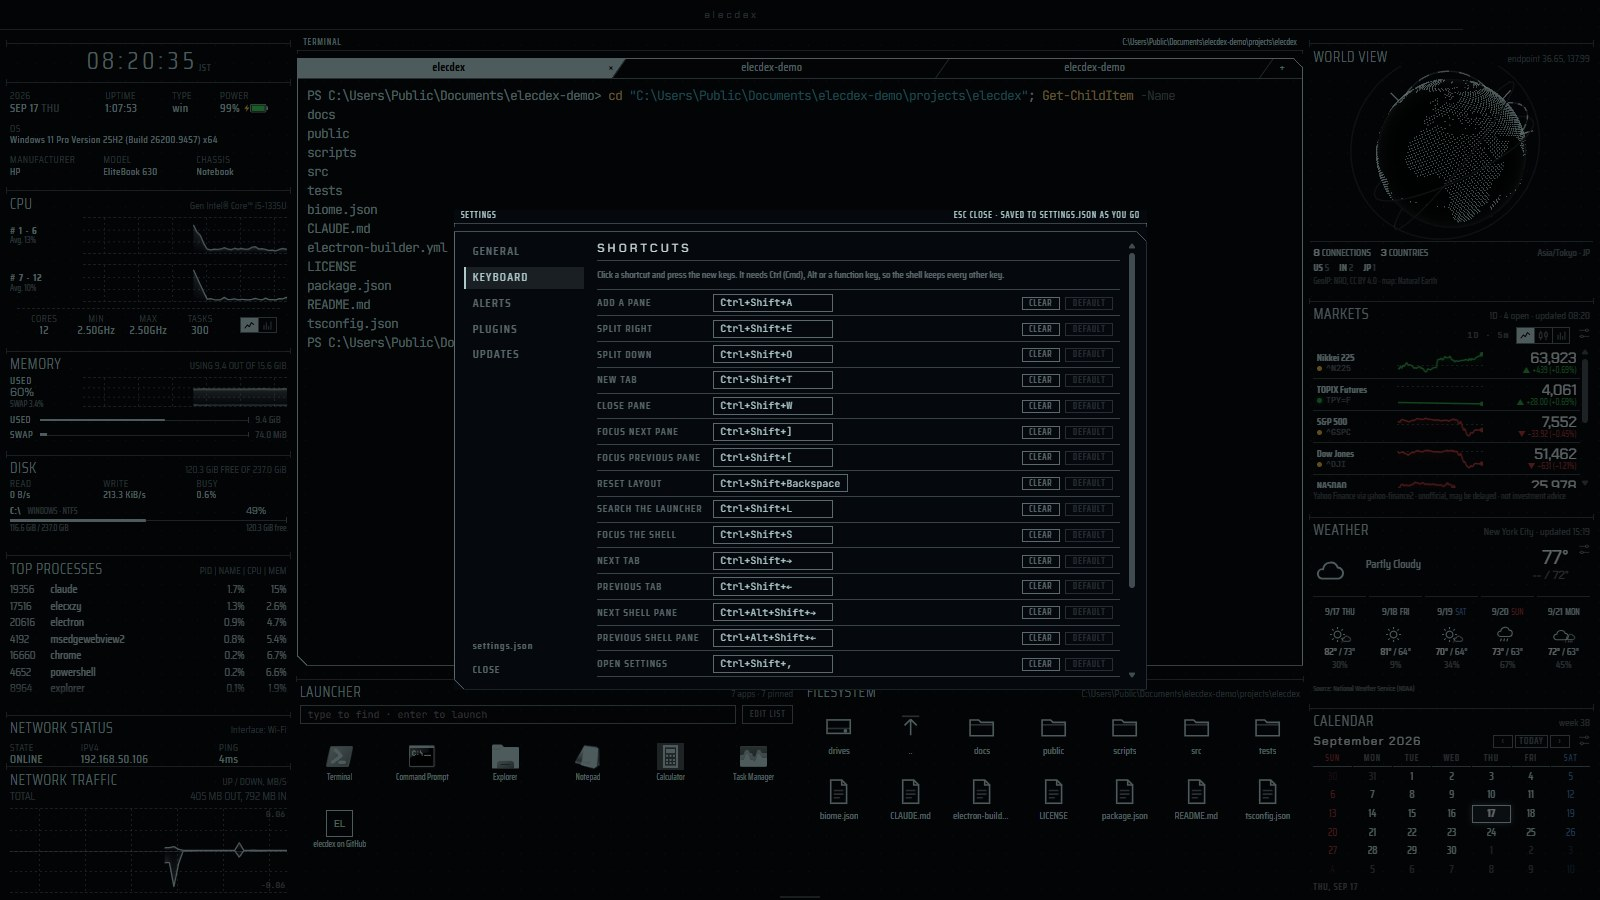
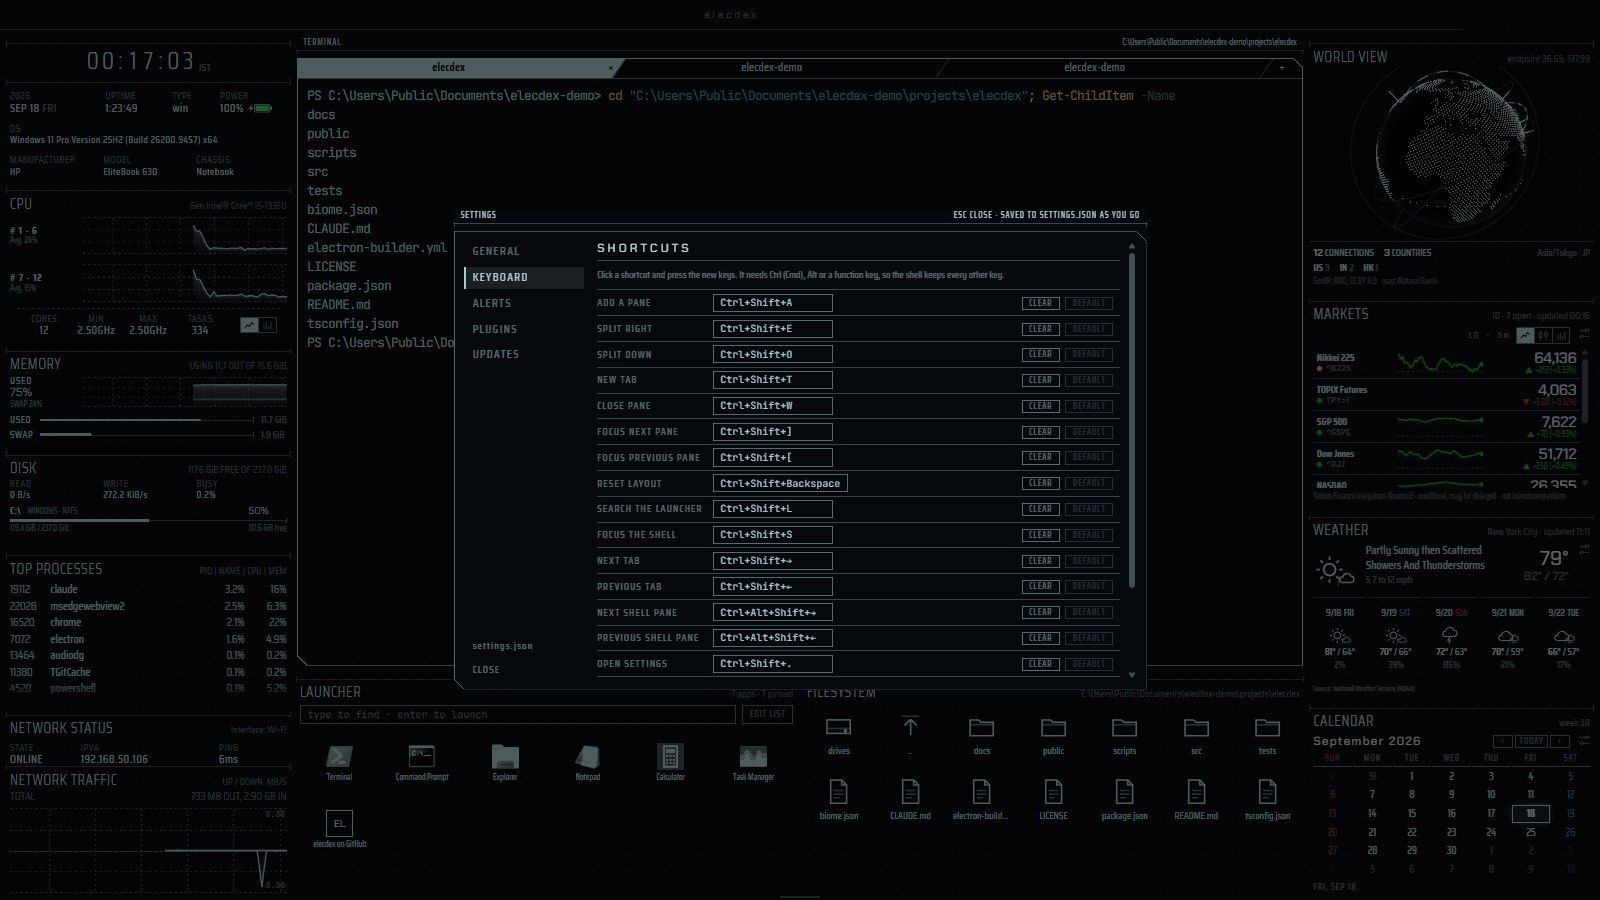
feat(keys): open the settings with Ctrl+Shift+. / 設定を Ctrl+Shift+. で開く
The default shortcut for the settings moves from Ctrl+Shift+, to Ctrl+Shift+.; a shortcut already set in settings.json is kept. / 設定を開く既定のショートカットを Ctrl+Shift+, から Ctrl+Shift+. に変更。settings.json で変更済みのショートカットはそのまま。

diff --git a/tests/e2e/settings.spec.ts b/tests/e2e/settings.spec.ts
@@ -16,7 +16,7 @@ const savedSettings = (userData: string) =>
 test('settings open from the shortcut, apply at once and are saved', async () => {
   const { page, userData, close } = await launch(undefined, { layout: SINGLE_CLOCK })
   try {
-    await page.keyboard.press('Control+Shift+Comma')
+    await page.keyboard.press('Control+Shift+Period')
     const dialog = page.getByTestId('settings-dialog')
     await expect(dialog).toBeVisible()
 
@@ -38,7 +38,7 @@ test('settings open from the shortcut, apply at once and are saved', async () =>
 test('a shortcut can be rebound, cleared and reset, and conflicts are shown', async () => {
   const { page, userData, close } = await launch(undefined, { layout: SINGLE_CLOCK })
   try {
-    await page.keyboard.press('Control+Shift+Comma')
+    await page.keyboard.press('Control+Shift+Period')
     await page.locator('[data-testid=settings-section][data-section=keyboard]').click()
     const addPane = page.locator('[data-testid=keybinding][data-action="pane.add"]')
     await expect(addPane.getByTestId('keybinding-chord')).toHaveText('Ctrl+Shift+A')
@@ -70,7 +70,7 @@ test('a shortcut can be rebound, cleared and reset, and conflicts are shown', as
     await page.keyboard.press('Escape')
 
     // Cleared, then back to the default.
-    await page.keyboard.press('Control+Shift+Comma')
+    await page.keyboard.press('Control+Shift+Period')
     await page.locator('[data-testid=settings-section][data-section=keyboard]').click()
     await addPane.getByTestId('keybinding-clear').click()
     await expect(addPane.getByTestId('keybinding-chord')).toHaveText('none')
@@ -120,7 +120,7 @@ test.describe('update check', () => {
           opened.push(url)
         }
       })
-      await page.keyboard.press('Control+Shift+Comma')
+      await page.keyboard.press('Control+Shift+Period')
       await page.locator('[data-testid=settings-section][data-section=updates]').click()
       await page.getByTestId('settings-updates-now').click()
       await expect(page.getByTestId('settings-updates-status')).toHaveAttribute(
@@ -165,7 +165,7 @@ test('a shell starts in the home folder by default, and in the folder chosen in 
     // Not the folder the app was started from: home.
     await cwdOf(terminalPane(page).first()).toBe(same(os.homedir()))
 
-    await page.keyboard.press('Control+Shift+Comma')
+    await page.keyboard.press('Control+Shift+Period')
     const input = page.getByTestId('settings-start-directory')
     const note = page.getByTestId('settings-start-directory-note')
     await expect(input).toHaveValue('')
@@ -195,7 +195,7 @@ test('a shell starts in the home folder by default, and in the folder chosen in 
     await cwdOf(panes.nth(0)).toBe(same(os.homedir()))
 
     // "home" clears the setting.
-    await page.keyboard.press('Control+Shift+Comma')
+    await page.keyboard.press('Control+Shift+Period')
     await page.getByTestId('settings-start-directory-home').click()
     await expect.poll(() => savedSettings(userData).terminal?.startDirectory).toBe('')
     await expect(input).toHaveValue('')

diff --git a/tests/e2e/motion.spec.ts b/tests/e2e/motion.spec.ts
@@ -302,7 +302,7 @@ const WHOLE = /^(none|matrix\(1, 0, 0, 1, 0, 0\))$/
 
 const ESCAPE = { key: 'Escape', code: 'Escape' }
 const ADD_PANE = { key: 'A', code: 'KeyA', ctrlKey: true, shiftKey: true }
-const SETTINGS = { key: '<', code: 'Comma', ctrlKey: true, shiftKey: true }
+const SETTINGS = { key: '>', code: 'Period', ctrlKey: true, shiftKey: true }
 
 interface DialogState {
   present: boolean
@@ -368,7 +368,7 @@ test('a dialog powers off as it closes: the pane picker, the settings and the we
   try {
     const dialogs = [
       { testid: 'pane-picker', open: () => page.keyboard.press('Control+Shift+KeyA') },
-      { testid: 'settings-dialog', open: () => page.keyboard.press('Control+Shift+Comma') },
+      { testid: 'settings-dialog', open: () => page.keyboard.press('Control+Shift+Period') },
       {
         testid: 'location-picker',
         open: async () => {

diff --git a/tests/unit/keybindings.test.ts b/tests/unit/keybindings.test.ts
@@ -35,6 +35,13 @@ describe('keybindings', () => {
     expect(isValidChord('Super+KeyA')).toBe(false)
   })
 
+  it('opens the settings with Ctrl+Shift+.', () => {
+    expect(keymap({}, 'win32').get('Ctrl+Shift+Period')).toBe('settings.open')
+    expect(keymap({}, 'win32').get('Ctrl+Shift+Comma')).toBeUndefined()
+    expect(chordFromEvent(key('Period', { ctrl: true, shift: true }))).toBe('Ctrl+Shift+Period')
+    expect(formatChord('Ctrl+Shift+Period')).toBe('Ctrl+Shift+.')
+  })
+
   it('reads chords from key events, Cmd counting as Ctrl', () => {
     expect(chordFromEvent(key('KeyA', { ctrl: true, shift: true }))).toBe('Ctrl+Shift+KeyA')
     expect(chordFromEvent(key('KeyA', { meta: true, shift: true }))).toBe('Ctrl+Shift+KeyA')

diff --git a/src/shared/keybindings.ts b/src/shared/keybindings.ts
@@ -27,7 +27,7 @@ export const KEYBINDING_ACTIONS = [
   { id: 'tab.previous', label: 'Previous tab', chord: 'Ctrl+Shift+ArrowLeft' },
   { id: 'shell.next', label: 'Next shell pane', chord: 'Ctrl+Alt+Shift+ArrowRight' },
   { id: 'shell.previous', label: 'Previous shell pane', chord: 'Ctrl+Alt+Shift+ArrowLeft' },
-  { id: 'settings.open', label: 'Open settings', chord: 'Ctrl+Shift+Comma' },
+  { id: 'settings.open', label: 'Open settings', chord: 'Ctrl+Shift+Period' },
   { id: 'window.fullscreen', label: 'Toggle fullscreen', chord: 'F11' },
   {
     id: 'window.minimize',

diff --git a/tests/e2e/quakes.spec.ts b/tests/e2e/quakes.spec.ts
@@ -258,7 +258,7 @@ test('turning alerts on in settings announces at the chosen intensity, or magnit
   })
   const saved = () => JSON.parse(readFileSync(path.join(userData, 'settings.json'), 'utf8')).quakes
   try {
-    await page.keyboard.press('Control+Shift+Comma')
+    await page.keyboard.press('Control+Shift+Period')
     await page.getByTestId('settings-section').locator('text=alerts').click()
     await expect(page.getByTestId('settings-quakes-source')).toHaveValue('jma')
     await expect(page.getByTestId('settings-quakes-intensity')).toBeDisabled()

diff --git a/tests/e2e/plugins.spec.ts b/tests/e2e/plugins.spec.ts
@@ -72,7 +72,7 @@ const pluginPane = (page: Page, id = 'p1') =>
   page.locator(`[data-testid=pane][data-pane-id="${id}"] [data-testid=plugin-pane]`)
 
 async function turnOn(page: Page, id: string): Promise<void> {
-  await page.keyboard.press('Control+Shift+Comma')
+  await page.keyboard.press('Control+Shift+Period')
   await page.locator('[data-testid=settings-section][data-section=plugins]').click()
   const entry = page.locator(`[data-testid=settings-plugin][data-plugin="${id}"]`)
   await entry.getByTestId('plugin-enabled').click()

diff --git a/docs/architecture.md b/docs/architecture.md
@@ -590,7 +590,7 @@ Phase 2.5（任意・後続）: ドラッグによるペイン分割/移動UI、
 | ウィンドウのタイトルバー | `titleBarStyle: 'hidden'` にしてページが高さ 30px のタイトルバーを描く（フルスクリーンでは描かない）。Windows / Linux はネイティブのウィンドウ操作ボタンを Window Controls Overlay で重ね、テーマ変更のたびに `setTitleBarOverlay` で背景色と記号色を合わせる（renderer は #rrggbb 2色だけを送り main が検証）。macOS は信号ボタンの分だけ左を空ける。フルスクリーンの状態は main から通知するが、Windows ではタイトルバーを隠したウィンドウで enter/leave-full-screen が発火しないため resize でも確認し、変化したときだけ送る | OS のタイトルバーは色を変えられない。枠は残すのでリサイズやスナップはそのまま使える。起動時にフルスクリーンだったウィンドウも F11 で抜けるとテーマ色のタイトルバーになる（従来は枠なしのままだった） |
 | ステータスバーの自動非表示 | 常時表示をやめ、ポインタが画面下端 8px に来るとスライドインし、バーから離れるかウィンドウ外に出て 500ms 後に隠す。バー内にフォーカスがある間（テーマ選択中、確認待ちのボタン）は隠さない。判定は window の pointermove で位置から行う。表示中はペインの上に重ね、レイアウトの高さを取らない。左端の小文字の elecdex は GitHub のリポジトリを既定のブラウザで開く | バーは静止したポインタの下にスライドインするため、バー要素の enter/leave イベントでは「離れた」ことを検知できない。E2E はポインタを下端に動かすヘルパー（showStatusBar）を使う |
 | 既定レイアウトのシェル拡大 | 列幅 20/58/22% → 18/64/18%、中央のシェルとランチャー/ファイルの比 70/30 → 74/26。ステータスバーが重ね表示になった分もシェルに回る | 1920×1080 のスクリーンショットで各ペインの可読性を確認。右列が狭くなり天気の週間予報は幅に収まる日数だけを1行で表示する（折り返した行の一部が見えていたため、はみ出す日は高さ 0 にして隠す） |
-| 設定 UI（Phase 7） | ステータスバーの SETTINGS か Ctrl+Shift+, で開くモーダル。general（テーマ・テーマフォルダ・モーション・効果音と音量・ランチャーのインストール済みアプリ表示）、keyboard、updates の3区分。変更はすべて settings.patch 経由で即時に settings.json へ保存し、手編集もそのまま反映される。ランチャーの独自項目やテーマ定義はファイルで編集し、ダイアログからファイルを開く | 既存の「main が検証して保存し全ウィンドウへ配信する」経路をそのまま使い、UI 専用の状態を持たない。patch はランチャーの showSystem だけを受け付け、items は受け付けない（renderer から起動対象を増やせないようにする） |
+| 設定 UI（Phase 7） | ステータスバーの SETTINGS か Ctrl+Shift+. で開くモーダル。general（テーマ・テーマフォルダ・モーション・効果音と音量・ランチャーのインストール済みアプリ表示）、keyboard、updates の3区分。変更はすべて settings.patch 経由で即時に settings.json へ保存し、手編集もそのまま反映される。ランチャーの独自項目やテーマ定義はファイルで編集し、ダイアログからファイルを開く | 既存の「main が検証して保存し全ウィンドウへ配信する」経路をそのまま使い、UI 専用の状態を持たない。patch はランチャーの showSystem だけを受け付け、items は受け付けない（renderer から起動対象を増やせないようにする） |
 | キーバインド（Phase 7） | 操作と既定のキーを shared/keybindings.ts に1か所で定義し、Workspace はキーマップを引くだけにした。キーは修飾キー + KeyboardEvent.code（"Ctrl+Shift+KeyA"）で保存し、Ctrl は Ctrl/Cmd の両方に一致。Ctrl・Alt・ファンクションキーのいずれかを含まないキーは受け付けない。設定の keybindings は操作 id → キー（null で解除）の上書きだけを持ち、既定と同じ値は保存しない。未知の id や不正なキーはファイル全体を無効にせず無視する。重複は先に定義された操作が使い、設定画面に「in use by …」と表示。記録中はアプリのショートカットを止める。ステータスバーのヒントは有効なキーから生成 | code で持つのでキーボード配列に依存しない。シェルで打つキーを奪わないことを検証で保証する。新しい版で増えた操作が古い版で settings.json ごと隔離される事態を避ける |
 | 更新チェック（Phase 7） | electron-updater は使わず、GitHub API の releases/latest を起動 15 秒後と以後 24 時間ごとに1回だけ取得し（設定でオフにできる、既定オン）、下書き・プレリリースを除いて semver で比較する。新しい版があれば右下に通知を出し、リリースページを開く（URL はこのリポジトリのリリースページに限る）。404（未公開）は最新扱い。手動の「check now」は設定に関わらず実行。E2E は ELECDEX_UPDATES_URL を閉じたポートかローカルスタブに向け、GitHub に接続しない | 署名なしのビルドを自動で置き換えると Windows SmartScreen / macOS Gatekeeper の警告が毎回出て体験が悪い。確認だけなら通信は1日1回の小さな GET で済み、ダウンロード物の検証も要らない |
 | リリースパイプライン（Phase 7） | .github/workflows/release.yml: `v*.*.*` タグの push（または既存タグを指定した手動実行）で、タグと package.json の version の一致を確認し、verify（lint・型検査・単体テスト）を通してから `gh release create --prerelease --generate-notes` でプレリリースを1つ作り、6 ジョブ（Linux x64/arm64、Windows x64/arm64、macOS arm64/x64）が `electron-builder --publish always`（releaseType: prerelease、公開から2時間を過ぎたリリースにも添付できるよう EP_GH_IGNORE_TIME=true）で成果物を添付する。人が確認して正式リリースに切り替える（更新チェックはプレリリースを無視するので、それまで既存のアプリには通知されない） | リリースを先に1つ作るのは、並列ジョブが同時に作成して重複するのを防ぐため。Windows arm64 と macOS x64 は node-pty のプリビルドがあり再ビルドしない（npmRebuild: false）ので同じランナーでクロスパッケージできる。署名は未設定 |

diff --git a/README.md b/README.md
@@ -125,7 +125,7 @@ starts in a window and `--no-intro` skips the boot sequence.
 | Ctrl+Shift+Backspace | reset to the default layout |
 | Ctrl+Shift+L | search the launcher (adds a launcher pane if there is none) |
 | Ctrl+Shift+S | focus the shell in its selected tab (adds a shell pane if there is none) |
-| Ctrl+Shift+, | settings |
+| Ctrl+Shift+. | settings |
 | F11 | toggle fullscreen |
 | Ctrl+Shift+M | minimize the window (Windows, Linux) |
 | Ctrl+Shift+Q | quit |
